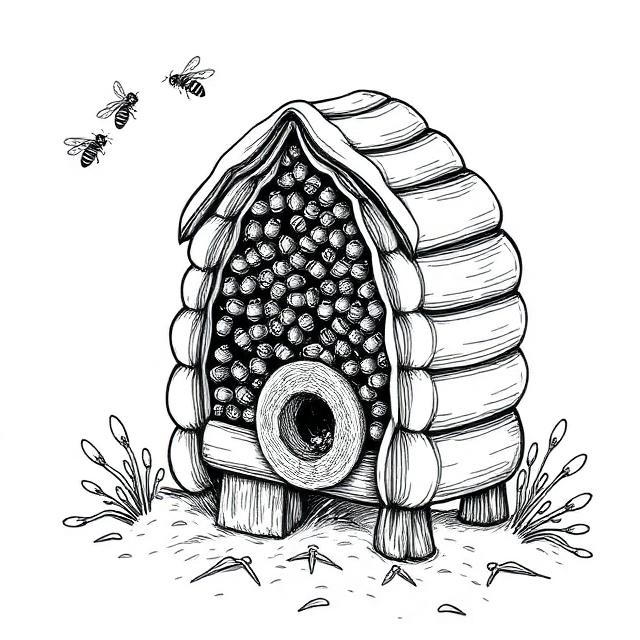
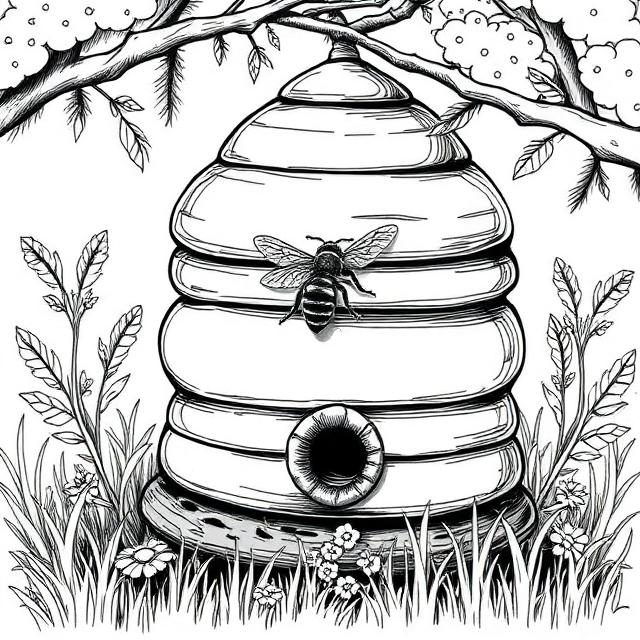
feat: update for mobile. Fix: update wrong text and pictures

diff --git a/src/app/componenets/landing/landing.ts b/src/app/componenets/landing/landing.ts
@@ -9,31 +9,31 @@ import { RouterLink } from '@angular/router';
 })
 export class Landing {
   components = [
-    { id: 1, name: 'Rebus 1', description: 'NL (v) - 7', path: 'puzzle1' },
-    { id: 2, name: 'Rebus 2', description: 'EN (e) - 6', path: 'puzzle2' },
-    { id: 3, name: 'Rebus 3', description: 'NL (e) - 5', path: 'puzzle3' },
-    { id: 4, name: 'Rebus 4', description: 'EN (n) - 6', path: 'puzzle4' },
-    { id: 5, name: 'Rebus 5', description: 'EN (k) - 6', path: 'puzzle5' },
-    { id: 6, name: 'Rebus 6', description: 'LAT (o) - 6', path: 'puzzle6' },
-    { id: 7, name: 'Rebus 7', description: 'NL (l) - 9', path: 'puzzle7' },
-    { id: 8, name: 'Rebus 8', description: 'NL (o) - 7', path: 'puzzle8' },
-    { id: 9, name: 'Rebus 9', description: 'NL (n) - 5', path: 'puzzle9' },
-    { id: 10, name: 'Rebus 10', description: 'EN (i) - 4', path: 'puzzle10' },
-    { id: 11, name: 'Rebus 11', description: 'NL (a) - 8', path: 'puzzle11' },
-    { id: 12, name: 'Rebus 12', description: 'NL (a) - 4', path: 'puzzle12' },
-    { id: 13, name: 'Rebus 13', description: 'EN (l) - 8', path: 'puzzle13' },
-    { id: 14, name: 'Rebus 14', description: 'NL (g) - 6', path: 'puzzle14' },
-    { id: 15, name: 'Rebus 15', description: 'NL (e) - 8', path: 'puzzle15' },
-    { id: 16, name: 'Rebus 16', description: 'NL (s) - 4', path: 'puzzle16' },
-    { id: 17, name: 'Rebus 17', description: 'NL (l) - 9', path: 'puzzle17' },
-    { id: 18, name: 'Rebus 18', description: 'NL (a) - 6', path: 'puzzle18' },
-    { id: 19, name: 'Rebus 19', description: 'EN (c) - 6', path: 'puzzle19' },
-    { id: 20, name: 'Rebus 20', description: 'EN (h) - 8', path: 'puzzle20' },
-    { id: 21, name: 'Rebus 21', description: 'NL (t) - 10', path: 'puzzle21' },
-    { id: 22, name: 'Rebus 22', description: 'EN (b) - 7', path: 'puzzle22' },
-    { id: 23, name: 'Rebus 23', description: 'EN (e) - 7', path: 'puzzle23' },
-    { id: 24, name: 'Rebus 24', description: 'NL (r) - 3', path: 'puzzle24' },
-    { id: 25, name: 'Rebus 25', description: 'EN (g) - 6', path: 'puzzle25' },
+    { id: 1, name: 'Rebus 1', description: 'NL - 7', path: 'puzzle1' },
+    { id: 2, name: 'Rebus 2', description: 'EN - 9', path: 'puzzle2' },
+    { id: 3, name: 'Rebus 3', description: 'NL - 5', path: 'puzzle3' },
+    { id: 4, name: 'Rebus 4', description: 'EN - 6', path: 'puzzle4' },
+    { id: 5, name: 'Rebus 5', description: 'EN - 6', path: 'puzzle5' },
+    { id: 6, name: 'Rebus 6', description: 'LAT - 6', path: 'puzzle6' },
+    { id: 7, name: 'Rebus 7', description: 'NL - 9', path: 'puzzle7' },
+    { id: 8, name: 'Rebus 8', description: 'NL - 8', path: 'puzzle8' },
+    { id: 9, name: 'Rebus 9', description: 'NL - 5', path: 'puzzle9' },
+    { id: 10, name: 'Rebus 10', description: 'EN - 4', path: 'puzzle10' },
+    { id: 11, name: 'Rebus 11', description: 'NL - 8', path: 'puzzle11' },
+    { id: 12, name: 'Rebus 12', description: 'NL - 4', path: 'puzzle12' },
+    { id: 13, name: 'Rebus 13', description: 'EN - 8', path: 'puzzle13' },
+    { id: 14, name: 'Rebus 14', description: 'NL - 6', path: 'puzzle14' },
+    { id: 15, name: 'Rebus 15', description: 'NL - 8', path: 'puzzle15' },
+    { id: 16, name: 'Rebus 16', description: 'NL - 4', path: 'puzzle16' },
+    { id: 17, name: 'Rebus 17', description: 'NL - 9', path: 'puzzle17' },
+    { id: 18, name: 'Rebus 18', description: 'NL - 6', path: 'puzzle18' },
+    { id: 19, name: 'Rebus 19', description: 'EN - 6', path: 'puzzle19' },
+    { id: 20, name: 'Rebus 20', description: 'EN - 8', path: 'puzzle20' },
+    { id: 21, name: 'Rebus 21', description: 'NL - 10', path: 'puzzle21' },
+    { id: 22, name: 'Rebus 22', description: 'EN - 7', path: 'puzzle22' },
+    { id: 23, name: 'Rebus 23', description: 'EN - 7', path: 'puzzle23' },
+    { id: 24, name: 'Rebus 24', description: 'NL - 3', path: 'puzzle24' },
+    { id: 25, name: 'Rebus 25', description: 'EN - 6', path: 'puzzle25' },
     { id: 26, name: 'Rebus 26', description: 'Secret rebus 🤫', path: 'puzzle26' },
   ];
 }

diff --git a/src/styles.scss b/src/styles.scss
@@ -2,19 +2,29 @@
   display: flex;
   flex-direction: column;
   align-items: center;
+  padding: 20px;
+  box-sizing: border-box;
+  width: 100%;
 
   img {
-    max-width: 582px;
-    max-height: 582px;
+    max-width: 100%;
     height: auto;
+    border-radius: 8px;
+    margin-bottom: 12px;
   }
 
   button {
     margin-top: 1rem;
+    padding: 12px 24px;
+    font-size: 1rem;
   }
 
   input {
+    width: 100%;
+    max-width: 320px;
     margin: 1rem 0;
-    padding: 0.5rem;
+    padding: 12px;
+    font-size: 16px; // Prevents iOS automatic zoom on focus
+    box-sizing: border-box;
   }
 }

diff --git a/src/app/componenets/puzzle1/puzzle1.ts b/src/app/componenets/puzzle1/puzzle1.ts
@@ -1,9 +1,10 @@
 import { Component } from '@angular/core';
+import { CommonModule } from '@angular/common';
 
 @Component({
   selector: 'app-puzzle1',
   standalone: true,
-  imports: [],
+  imports: [CommonModule],
   templateUrl: './puzzle1.html',
   styleUrls: ['./puzzle1.scss'],
 })

diff --git a/src/app/componenets/puzzle15/puzzle15.ts b/src/app/componenets/puzzle15/puzzle15.ts
@@ -8,7 +8,7 @@ import { Component } from '@angular/core';
   styleUrls: ['./puzzle15.scss'],
 })
 export class Puzzle15 {
-  rebus15 = 'assets/rebus15.png';
+  rebus15 = 'assets/rebus15b.png';
   locked = true;
 
   handleImageError() {

diff --git a/src/app/componenets/puzzle20/puzzle20.html b/src/app/componenets/puzzle20/puzzle20.html
@@ -1,5 +1,5 @@
 <div class="puzzle-container">
   <h2>Rebus 20</h2>
-  <h3>EN - 8 Letters (2 words)</h3>
+  <h3>EN - 8 Letters (3 + 5 letters | 2 words)</h3>
   <img [src]="rebus20" alt="Rebus Puzzle 20" class="puzzle-image" />
 </div>

diff --git a/src/app/componenets/puzzle23/puzzle23.html b/src/app/componenets/puzzle23/puzzle23.html
@@ -1,5 +1,5 @@
 <div class="puzzle-container">
   <h2>Rebus 23</h2>
-  <h3>EN - 7 Letters (2 words)</h3>
+  <h3>EN - 7 Letters (3 + 4 letters | 2 words)</h3>
   <img [src]="rebus23" alt="Rebus Puzzle 23" class="puzzle-image" />
 </div>

diff --git a/src/app/componenets/puzzle2/puzzle2.html b/src/app/componenets/puzzle2/puzzle2.html
@@ -1,5 +1,5 @@
 <div class="puzzle-container">
   <h2>Rebus 2</h2>
-  <h3>EN - 6 Letters</h3>
+  <h3>EN - 9 Letters</h3>
   <img [src]="rebus2" alt="Rebus Puzzle 2" class="puzzle-image" />
 </div>

diff --git a/src/app/componenets/puzzle8/puzzle8.html b/src/app/componenets/puzzle8/puzzle8.html
@@ -1,5 +1,5 @@
 <div class="puzzle-container">
   <h2>Rebus 8</h2>
-  <h3>NL - 7 Letters</h3>
+  <h3>NL - 8 Letters</h3>
   <img [src]="rebus8" alt="Rebus Puzzle 8" class="puzzle-image" />
 </div>
